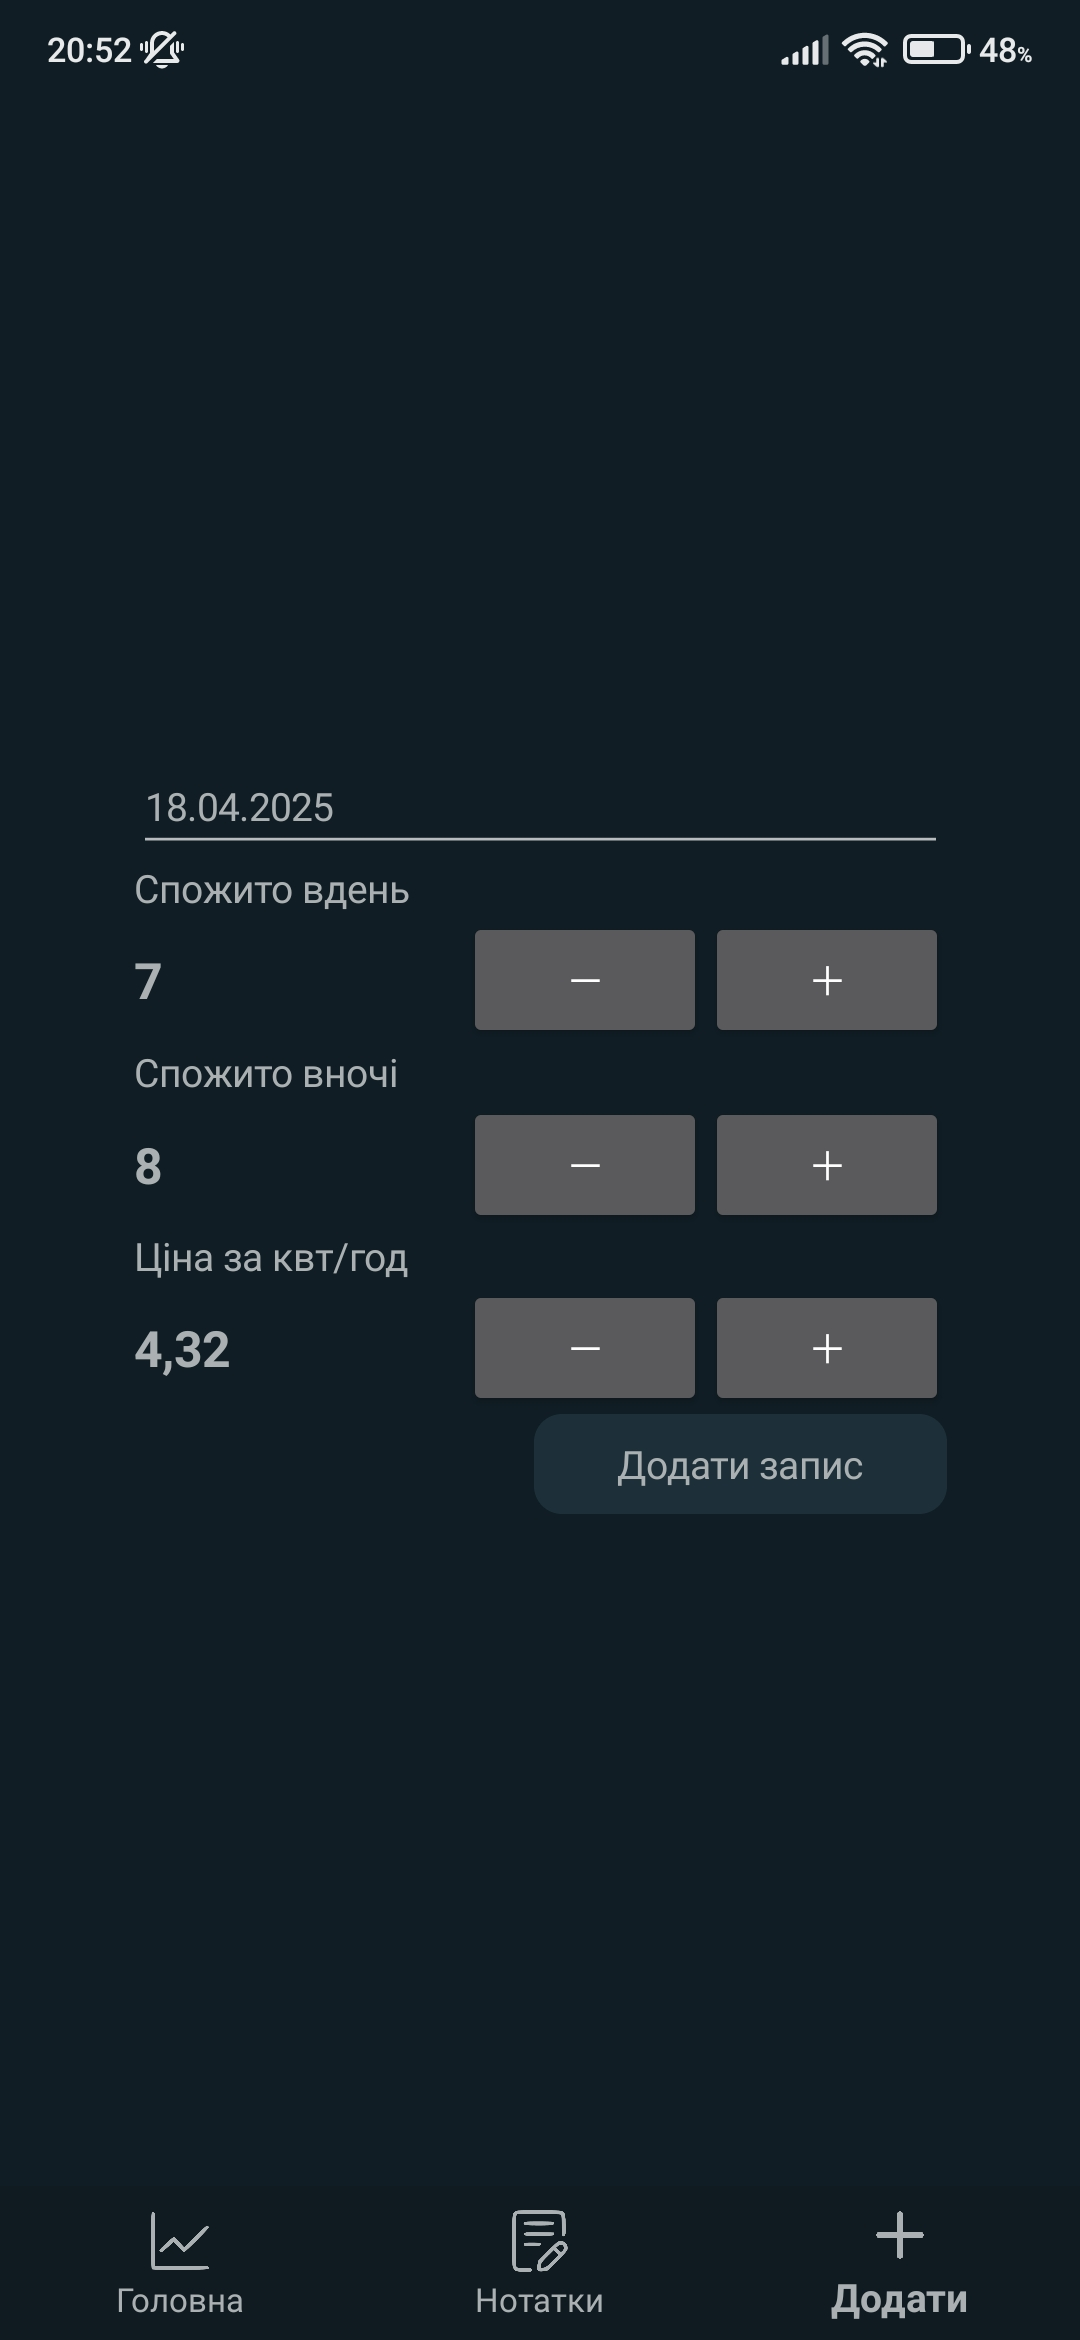
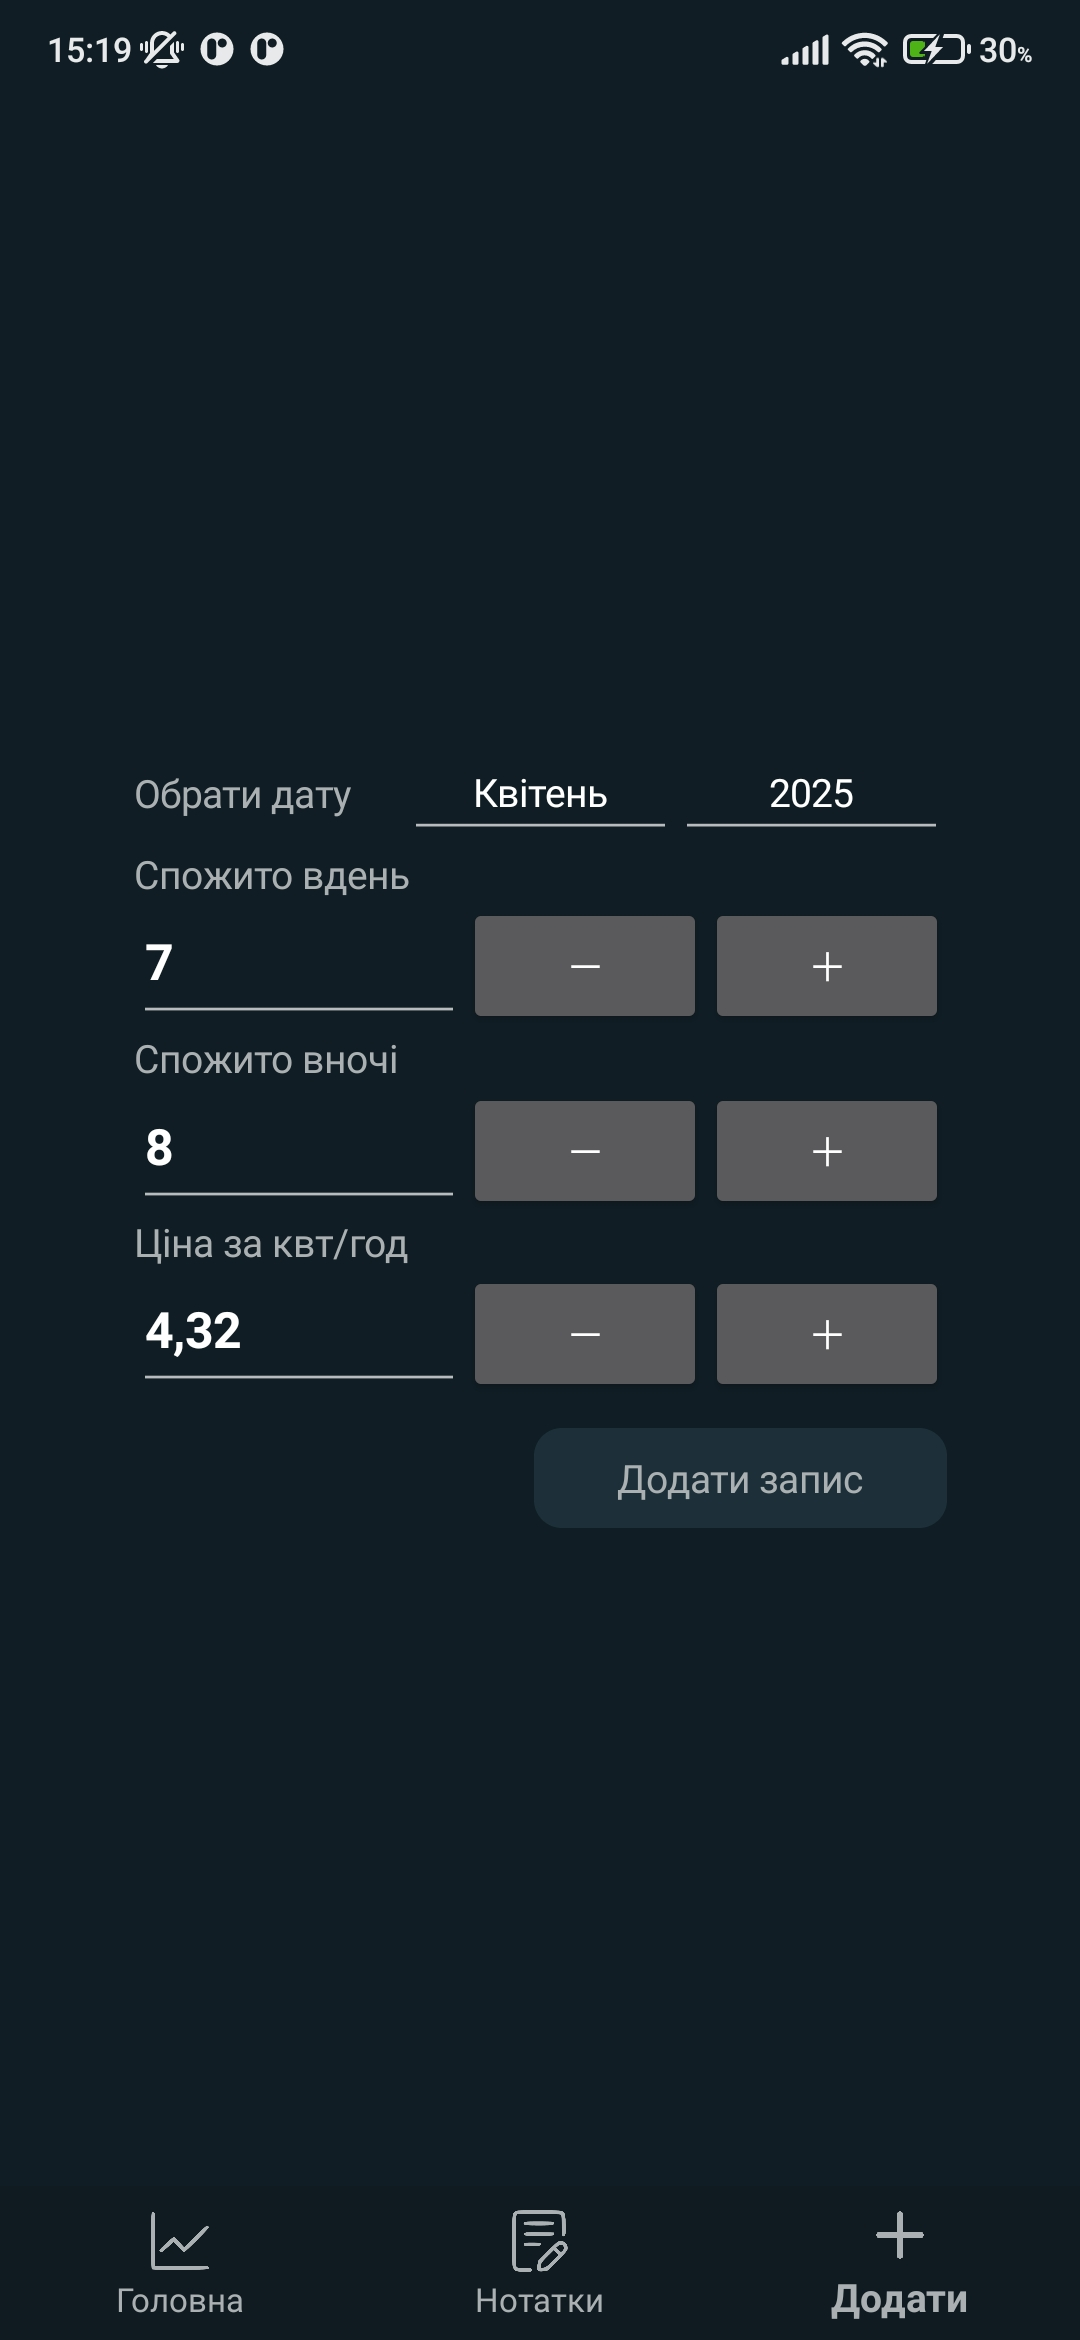
Reworked NumberBox. Date selection has been changed.

diff --git a/ElectricityApp/ElectricityApp/Pages/AddPage.xaml b/ElectricityApp/ElectricityApp/Pages/AddPage.xaml
@@ -9,8 +9,24 @@
     <VerticalStackLayout
         HorizontalOptions="Center"
         VerticalOptions="Center">
-        <DatePicker Date="{Binding Date, Converter={StaticResource DateOnlyConverter}}"
-                    TextColor="{StaticResource Light}"/>
+        <Grid
+            ColumnDefinitions="*, *, *">
+            <Label
+                Text="Обрати дату"
+                VerticalTextAlignment="Center"/>
+            <Picker
+                Grid.Column="1"
+                Title="Місяць"
+                ItemsSource="{Binding Months}"
+                SelectedItem="{Binding SelectedMonth}"/>
+
+            <Picker
+                Grid.Column="2"
+                Title="Рік"
+                ItemsSource="{Binding Years}"
+                SelectedItem="{Binding SelectedYear}"/>
+        </Grid>
+        
         <Label
             Text="Спожито вдень"/>
         <controls:NumberBox
@@ -36,6 +52,7 @@
             Increment=".01"/>
         
         <Button
+            Margin="0,10,0,0"
             HorizontalOptions="End"
             CornerRadius="10"
             WidthRequest="150"

diff --git a/ElectricityApp/ElectricityApp/Resources/Styles/Styles.xaml b/ElectricityApp/ElectricityApp/Resources/Styles/Styles.xaml
@@ -2,11 +2,7 @@
 <?xaml-comp compile="true" ?>
 <ResourceDictionary 
     xmlns="http://schemas.microsoft.com/dotnet/2021/maui"
-    xmlns:x="http://schemas.microsoft.com/winfx/2009/xaml"
-    xmlns:converters="clr-namespace:ElectricityApp.Converters">
-
-    <!-- Fix this-->
-    <converters:DateOnlyConverter x:Key="DateOnlyConverter"/>
+    xmlns:x="http://schemas.microsoft.com/winfx/2009/xaml">
 
     <Style TargetType="TabBar">
         <Setter Property="Shell.TabBarBackgroundColor" Value="{StaticResource PrimaryDark}"/>
@@ -26,6 +22,10 @@
 
     <Style TargetType="Label">
         <Setter Property="TextColor" Value="{StaticResource Light}"/>
+    </Style>
+
+    <Style TargetType="Picker">
+        <Setter Property="HorizontalTextAlignment" Value="Center"/>
     </Style>
     
 </ResourceDictionary>

diff --git a/ElectricityApp/ElectricityApp/Controls/NumberBox.xaml b/ElectricityApp/ElectricityApp/Controls/NumberBox.xaml
@@ -8,7 +8,8 @@
         HorizontalOptions="Fill"
         VerticalOptions="Center"
         BindingContext="{x:Reference This}">
-        <Label
+        <Entry
+            Keyboard="Numeric"
             Text="{Binding Value, StringFormat='{0}'}"
             WidthRequest="120"
             FontSize="18"

diff --git a/ElectricityApp/ElectricityApp/ViewModels/AddViewModel.cs b/ElectricityApp/ElectricityApp/ViewModels/AddViewModel.cs
@@ -7,26 +7,37 @@ namespace ElectricityApp.ViewModels;
 
 public partial class AddViewModel(NotesService _notesService) : ObservableObject
 {
-    [ObservableProperty] private DateOnly _date = DateOnly.FromDateTime(DateTime.Now);
+    private static readonly Dictionary<string, int> _months = new()
+    {
+        { "Січень", 1}, { "Лютий" , 2}, { "Березень" , 3}, { "Квітень" , 4},
+        { "Травень", 5}, { "Червень" , 6}, { "Липень" , 7}, { "Серпень" , 8},
+        { "Вересень", 9}, { "Жовтень" , 10}, { "Листопад" , 11}, { "Грудень" , 12},
+    };
+
+    public List<string> Months => [.. _months.Keys];
+
+    public List<int> Years => [.. Enumerable.Range(DateTime.Now.Year - 5, 20)];
+
+    [ObservableProperty] private string _selectedMonth = _months.First(m => m.Value == DateTime.Now.Month).Key;
+    [ObservableProperty] private int _selectedYear = DateTime.Now.Year;
     [ObservableProperty] private int _dayKilowattConsumed;
     [ObservableProperty] private int _nightKilowattConsumed;
     [ObservableProperty] private decimal _kilowattPerHourPrice = 4.32m;
 
     [RelayCommand]
-    private void Add()
+    private async Task Add()
     {
         var amountToPlay = 
             DayKilowattConsumed * KilowattPerHourPrice + NightKilowattConsumed * (KilowattPerHourPrice * 0.5m);
 
-        var record = new ElectricityConsumption(Date, DayKilowattConsumed, NightKilowattConsumed, amountToPlay);
+        var record = new ElectricityConsumption(new DateOnly(SelectedYear, _months[SelectedMonth], 1), DayKilowattConsumed, NightKilowattConsumed, amountToPlay);
         try
         {
-            _notesService.AddNote(record);
-            Date = Date.AddMonths(1);
+            await _notesService.AddNote(record);
         }
         catch (ArgumentException ex)
         {
-            Shell.Current.DisplayAlert("Помилка!", ex.Message, "Зрозуміло");
+            await Shell.Current.DisplayAlert("Помилка!", ex.Message, "Зрозуміло");
         }
     }
 }
